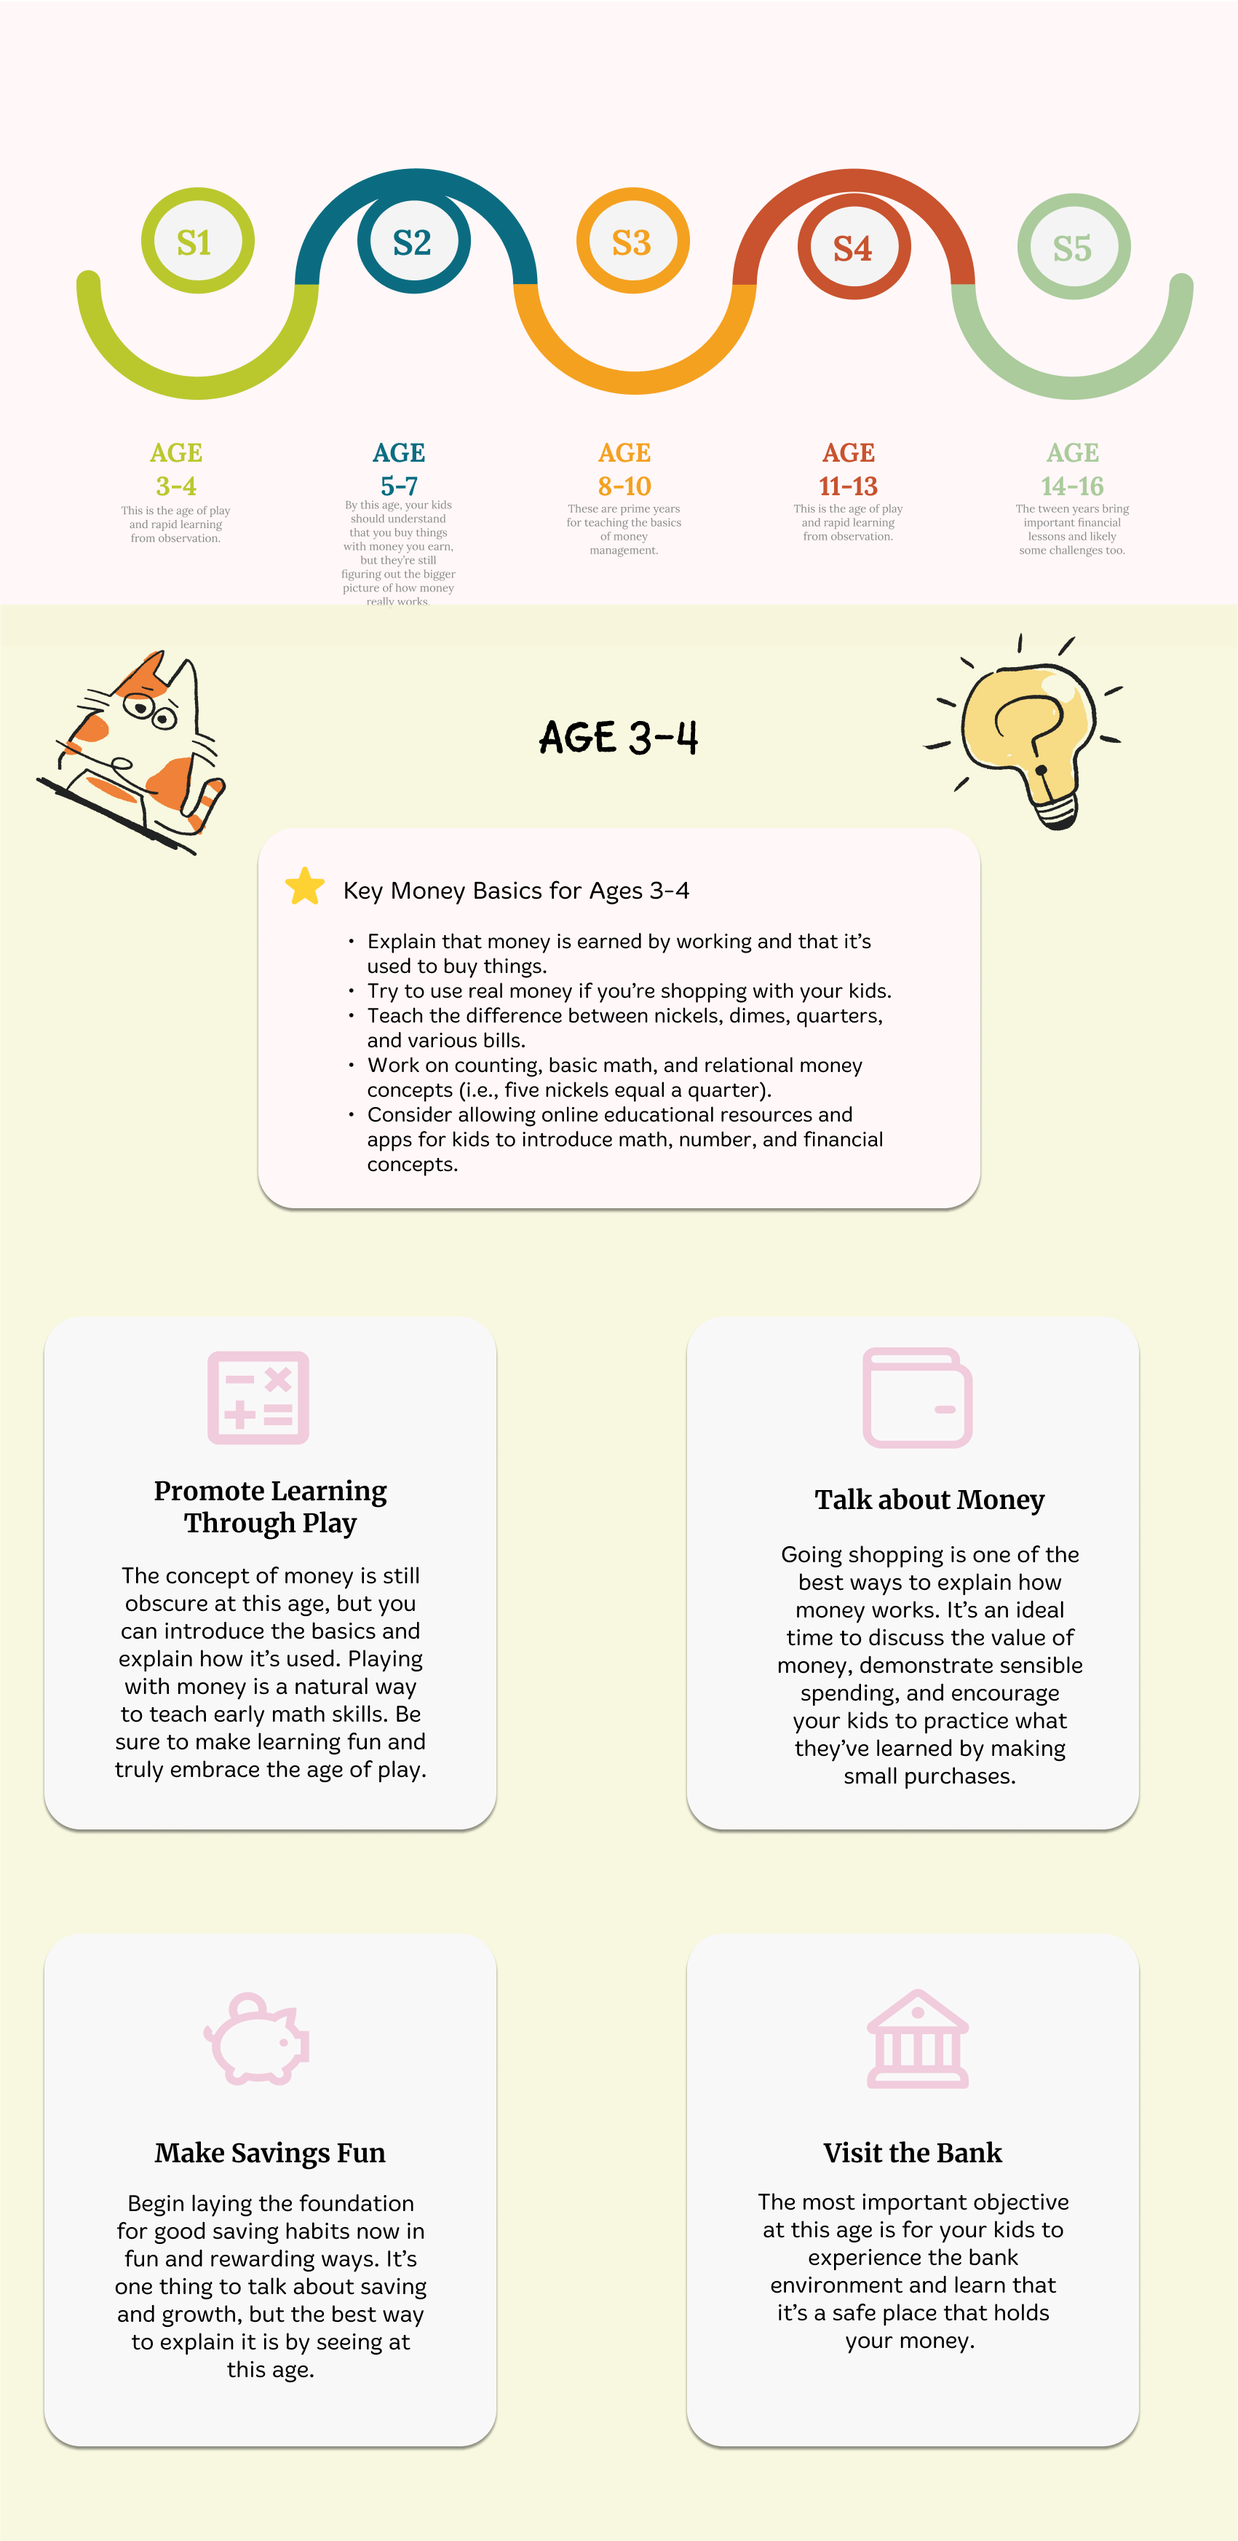
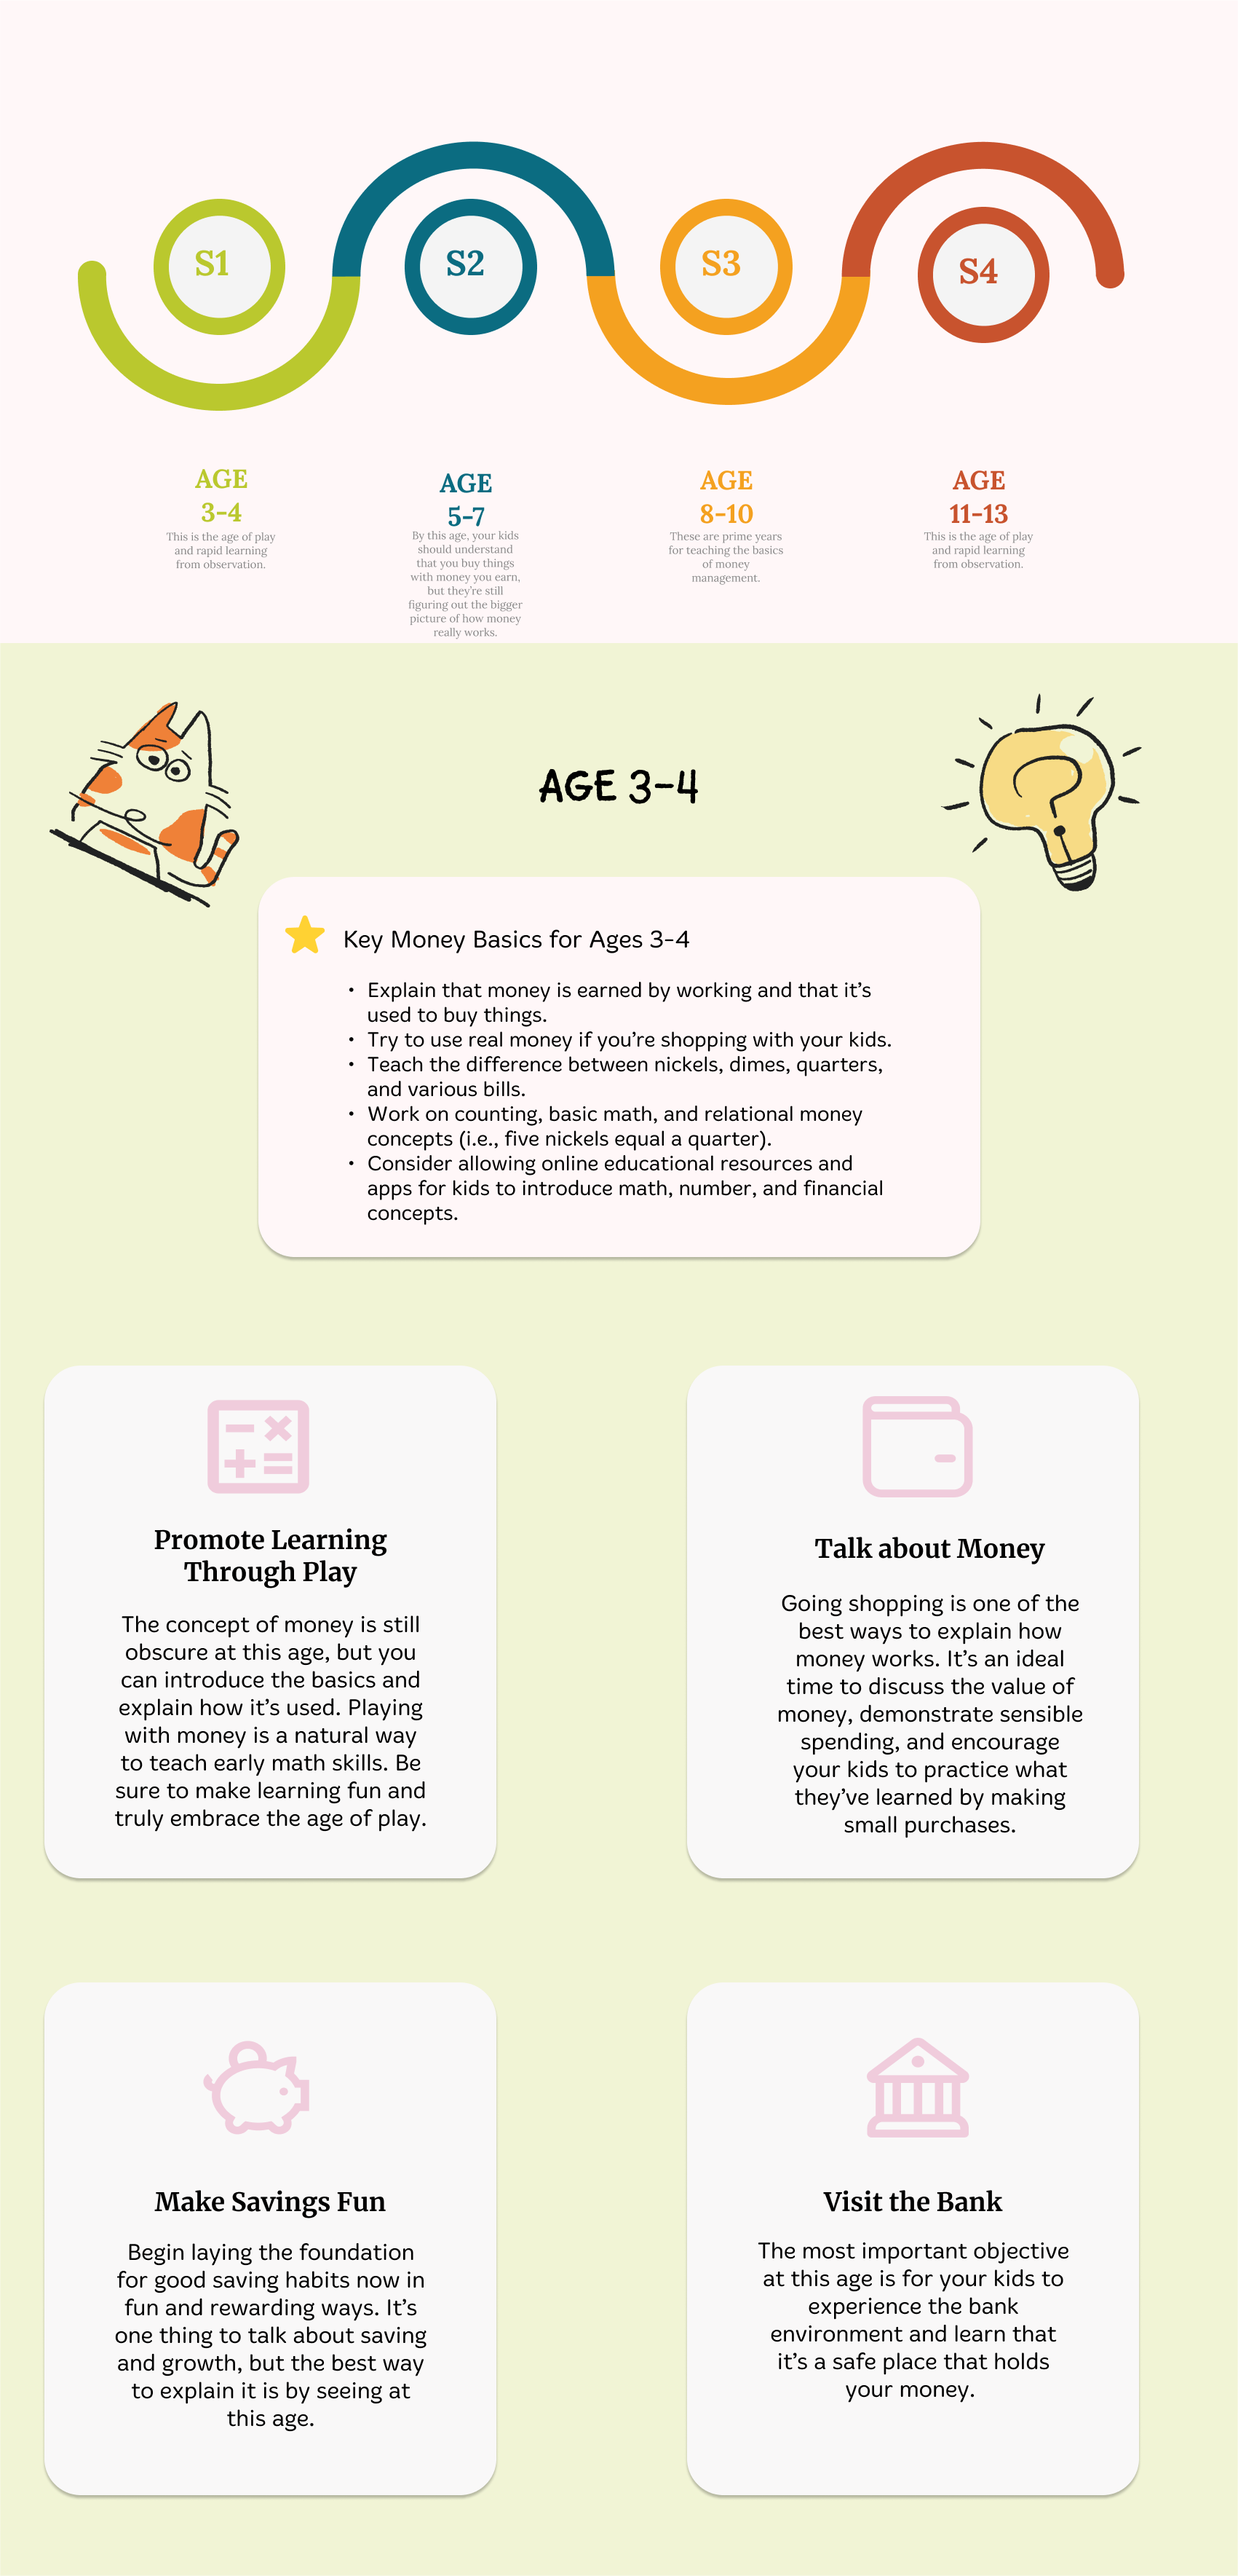
mod - align with figma

Changed region(s): [[0.0, 0.0312, 1.0, 0.9685]]

diff --git a/src/page/roadmapPage/roadmapPage.css b/src/page/roadmapPage/roadmapPage.css
@@ -1,19 +1,14 @@
-.roadmapImg {
-    /* width: 100%; */
-    /* height: auto; */
-}
-
 .backgroundImg {
     position: relative;
     background-image: url('../../images/roadmap.png');
     background-size: 100% auto;
     background-position: center top;
     width: 100%;
-    height: 202vw;
+    height: 204vw;
 }
 
 .btn3 {
-    width: 18%;
+    width: 22%;
     height: 18%;
     position: absolute;
     top: 6%;
@@ -22,59 +17,49 @@
 }
 
 .btn5 {
-    width: 18%;
-    height: 17%;
+    width: 22%;
+    height: 18%;
     position: absolute;
     top: 6%;
-    left: 24%;
+    left: 28%;
     z-index: 199;
 }
 
 .btn8 {
-    width: 18%;
-    height: 17%;
+    width: 22%;
+    height: 18%;
     position: absolute;
     top: 6%;
-    left: 42%;
+    left: 50%;
     z-index: 199;
 }
 
 
 .btn11 {
-    width: 18%;
-    height: 17%;
+    width: 22%;
+    height: 18%;
     position: absolute;
     top: 6%;
-    left: 60%;
-    z-index: 199;
-}
-
-
-.btn14 {
-    width: 18%;
-    height: 17%;
-    position: absolute;
-    top: 6%;
-    left: 78%;
+    left: 72%;
     z-index: 199;
 }
 
 .showRoadmap5 {
     width: 100%;
     position: absolute;
-    top: 11.5%;
+    top: 12.5%;
 }
 
 .showRoadmap8 {
     width: 100%;
     position: absolute;
-    top: 11.5%;
+    top: 12.5%;
 }
 
 .showRoadmap11 {
     width: 100%;
     position: absolute;
-    top: 11.5%;
+    top: 12.5%;
 }
 
 

diff --git a/src/page/roadmapPage/roadmapPage.js b/src/page/roadmapPage/roadmapPage.js
@@ -1,11 +1,10 @@
 import React, { useContext, useEffect, useState } from 'react';
-import roadmap from '../../images/roadmap.png'
 import roadmap5 from '../../images/roadmap5.png'
 import roadmap8 from '../../images/roadmap8.png'
 import roadmap11 from '../../images/roadmap11.png'
 import './roadmapPage.css'
 
-const ageGroup = [3, 5, 8, 11, 14]
+const ageGroup = [3, 5, 8, 11]
 const RoadmapPage = () => {
     const [roadmapAge, setRoadmapAge] = useState(3);
     const changeRoadmapInfoByAge = (e) => {
